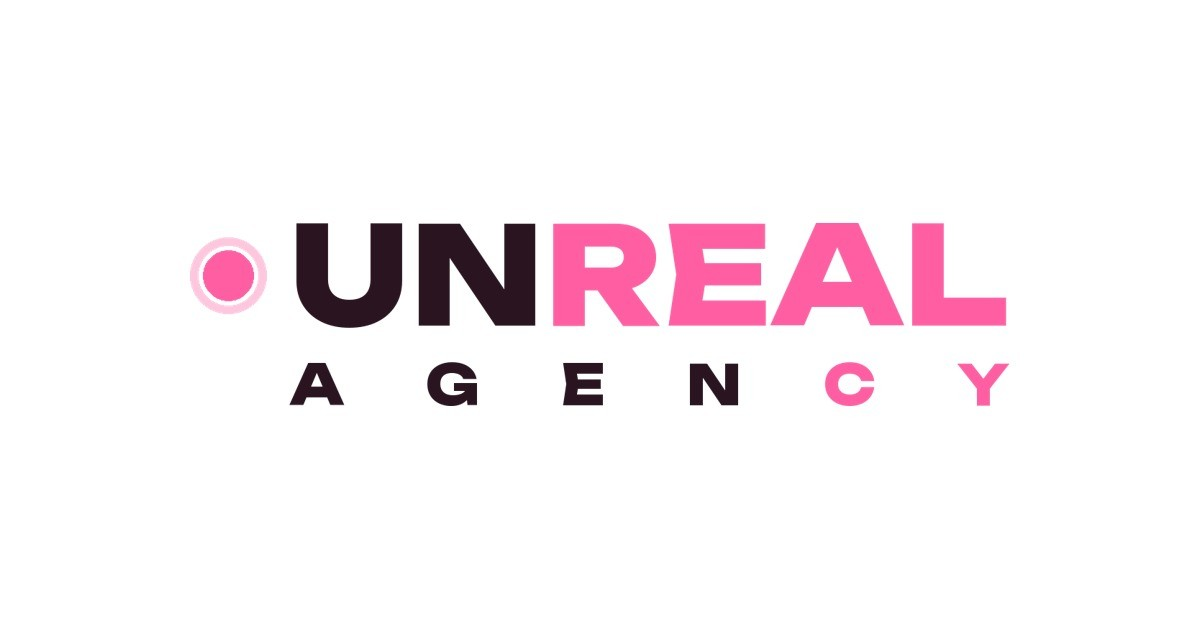
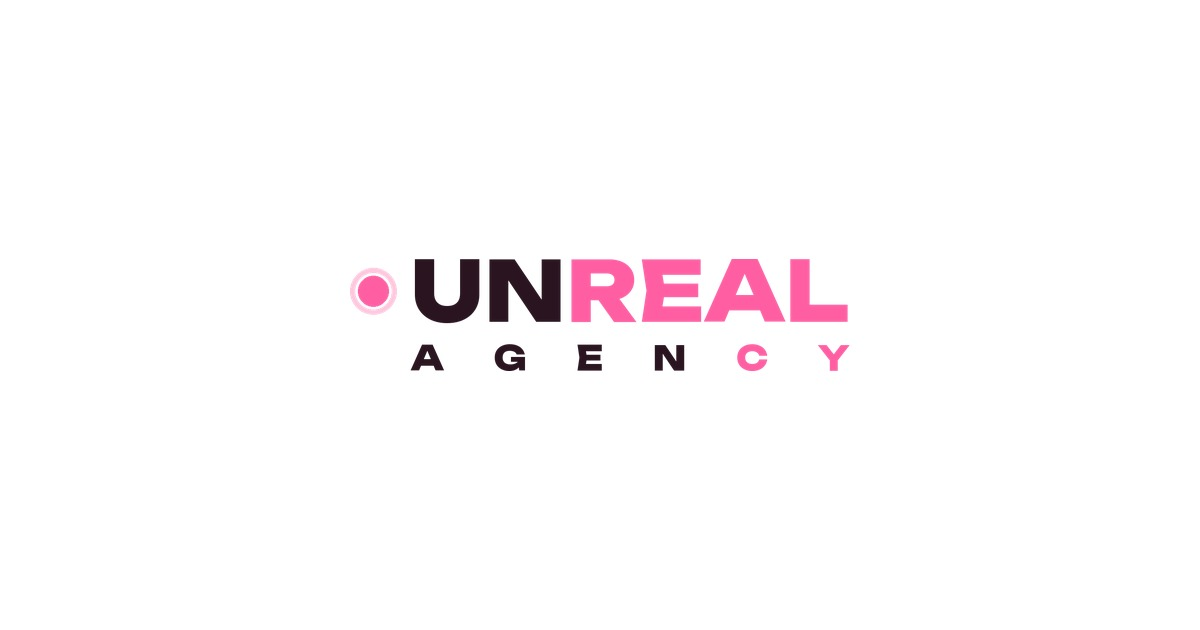
Link preview fits square crops (Snap); fix /coaching and /models rewrites
Claude-Session: https://claude.ai/code/session_01LopeR7hYuuJgsTq4H2i9PJ

diff --git a/index.html b/index.html
@@ -11,13 +11,13 @@
 <meta property="og:site_name" content="Unreal Agency">
 <meta property="og:title" content="Unreal Agency">
 <meta property="og:description" content="We run AI models that post, chat and sell 24/7.">
-<meta property="og:image" content="https://unrealagency.ai/brand/og.jpg">
+<meta property="og:image" content="https://unrealagency.ai/brand/og.jpg?v=2">
 <meta property="og:image:width" content="1200">
 <meta property="og:image:height" content="630">
 <meta property="og:url" content="https://unrealagency.ai/">
 <meta property="og:type" content="website">
 <meta name="twitter:card" content="summary_large_image">
-<meta name="twitter:image" content="https://unrealagency.ai/brand/og.jpg">
+<meta name="twitter:image" content="https://unrealagency.ai/brand/og.jpg?v=2">
 <meta name="theme-color" content="#ff5fa2">
 
 <link rel="preconnect" href="https://fonts.googleapis.com">
